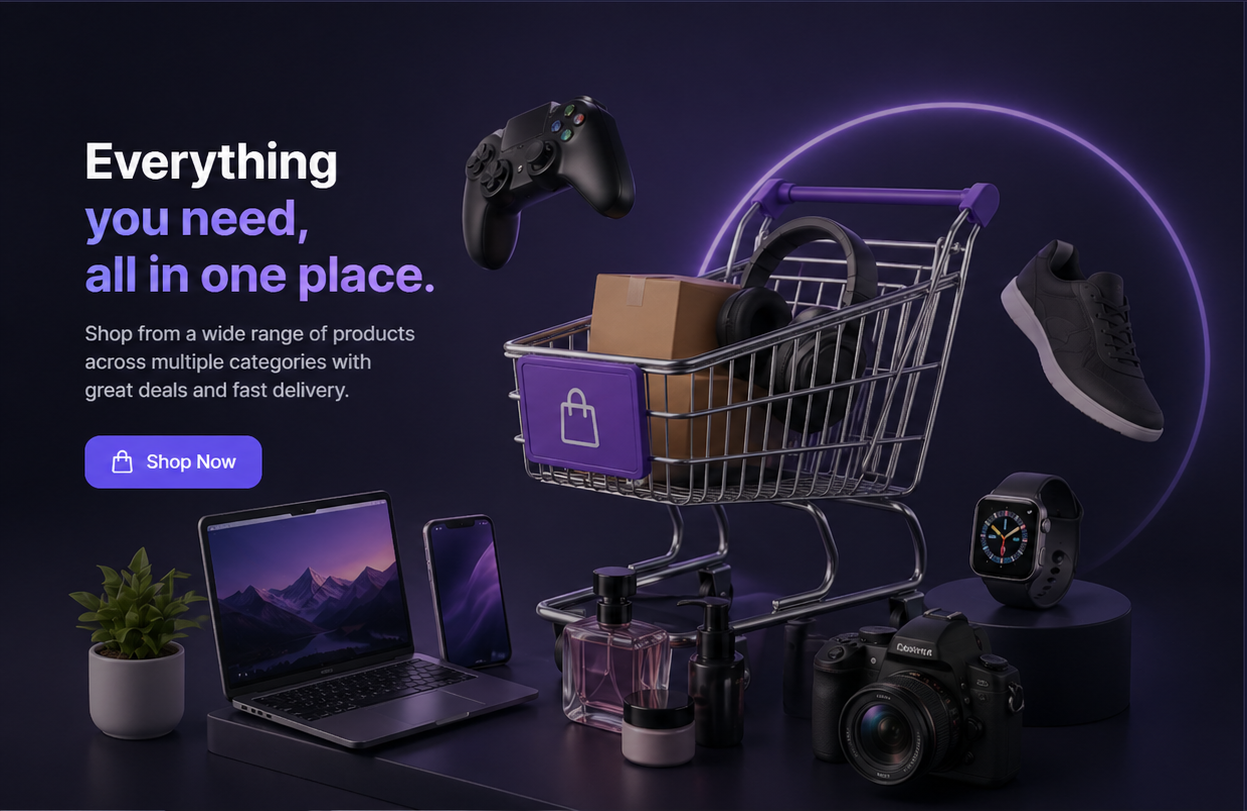
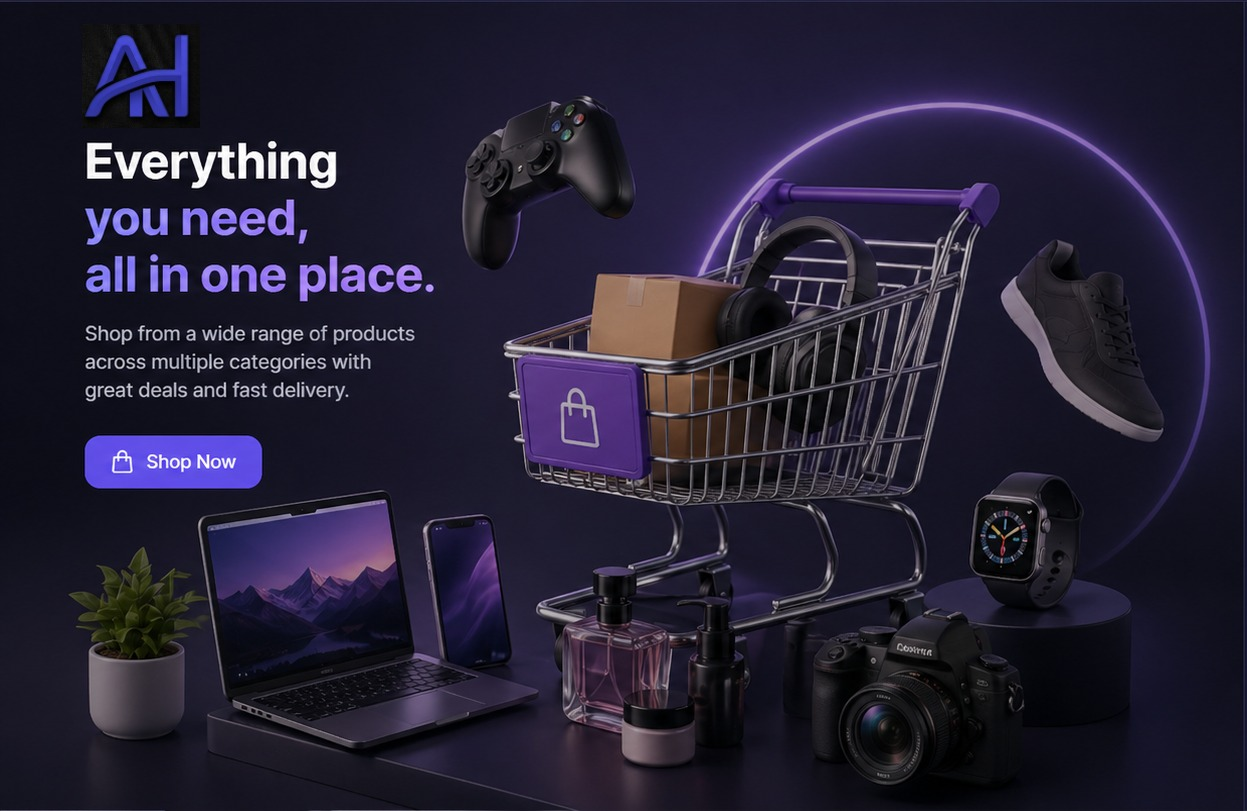
upgrade ui

Changed region(s): [[0.0609, 0.0308, 0.1524, 0.1541], [0.0914, 0.5549, 0.1828, 0.5857]]

diff --git a/src/components/Header/Header.jsx b/src/components/Header/Header.jsx
@@ -26,9 +26,14 @@ const Header = () => {
     <header className="header">
       <nav className="nav">
         {/* LOGO */}
-        <p className="logo">attarHub</p>
+        <div className="logo-container">
+          <Link to="/">
+            <img src="/favicon2.png" alt="Logo" className="logo-icon" />
+          </Link>
+          <Link to="/" className="logo" style={{ fontSize: "20px", fontWeight: "bold" }}>Attar Hub</Link>
+        </div>
         {/* HAMBURGER */}
-        <div style={{ display: "flex", alignItems: "center"  , position: "relative",   gap: "15px" }}>
+        <div style={{ display: "flex", alignItems: "center", position: "relative", gap: "15px" }}>
           {user && (
             <>
               <Link to="/favorites" className="cart-link" onClick={() => setOpen(false)}>
@@ -45,11 +50,11 @@ const Header = () => {
               </Link>
             </>
           )}
-         
+
           <div className="hamburger" onClick={() => setOpen(!open)}>
             ☰
           </div>
-      </div>
+        </div>
         {/* RIGHT SIDE */}
         <div className={`nav-right ${open ? "open" : ""}`}>
           <button onClick={toggleTheme} className="theme-btn">

diff --git a/index.html b/index.html
@@ -1,13 +1,16 @@
 <!doctype html>
 <html lang="en">
-  <head>
-    <meta charset="UTF-8" />
-    <link rel="icon" type="image/svg+xml" href="/favicon.svg" />
-    <meta name="viewport" content="width=device-width, initial-scale=1.0" />
-    <title>attar-hub</title>
-  </head>
-  <body>
-    <div id="root"></div>
-    <script type="module" src="/src/main.jsx"></script>
-  </body>
+
+<head>
+  <meta charset="UTF-8" />
+  <link rel="icon" type="image/png" href="/favicon1.png" />
+  <meta name="viewport" content="width=device-width, initial-scale=1.0" />
+  <title>attar hub</title>
+</head>
+
+<body>
+  <div id="root"></div>
+  <script type="module" src="/src/main.jsx"></script>
+</body>
+
 </html>

diff --git a/src/components/Header/Header.css b/src/components/Header/Header.css
@@ -17,27 +17,21 @@
 }
 
 /* ================= LOGO ================= */
-.logo {
-  font-size: 22px;
-  font-weight: bold;
-  color: #fff;
-  cursor: pointer;
-  position: relative;
+.logo-container {
+  display: flex;
+  align-items: center;
+  gap: 2px;
 }
 
-.logo::after {
-  content: "";
-  position: absolute;
-  left: 0;
-  bottom: -6px;
-  width: 0;
-  height: 2px;
-  background: #5642ec;
-  transition: 0.3s;
+.logo-icon {
+  width: 40px;
+  height: 40px;
+  border: 2px solid #5642ec;
+  border-radius: 50%;
 }
 
-.logo:hover::after {
-  width: 100%;
+.logo-icon:hover {
+  box-shadow: 0 0 10px #5642ec;
 }
 
 /* ================= RIGHT SIDE ================= */

diff --git a/src/pages/Cart/Cart.jsx b/src/pages/Cart/Cart.jsx
@@ -34,6 +34,7 @@ const Cart = () => {
       message += `Qty: ${item.qty}\n`;
       message += `Price: ${finalPrice.toFixed(0)} EGP\n`;
       message += `-------------------\n`;
+      message += `Have a nice day ✨`;
     });
 
     message += `\n💰 *Total:* ${total.toFixed(0)} EGP`;
